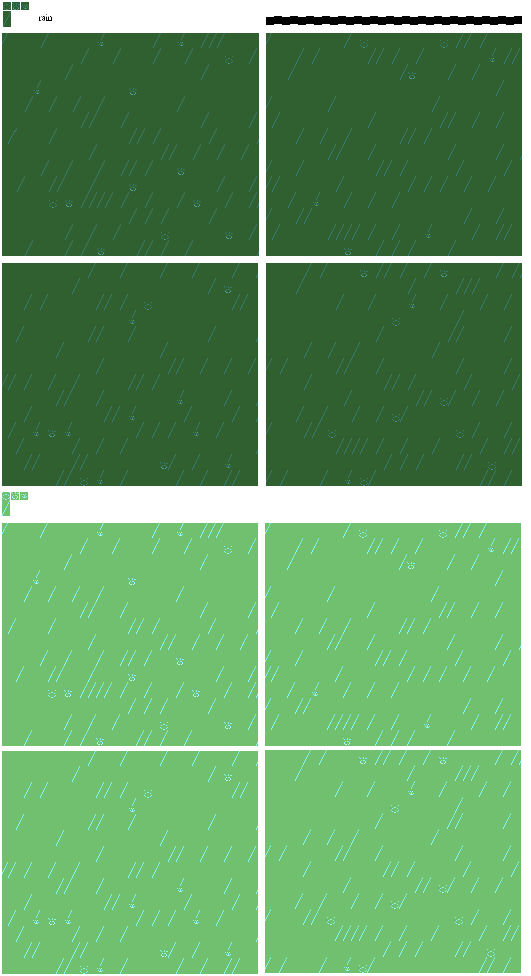
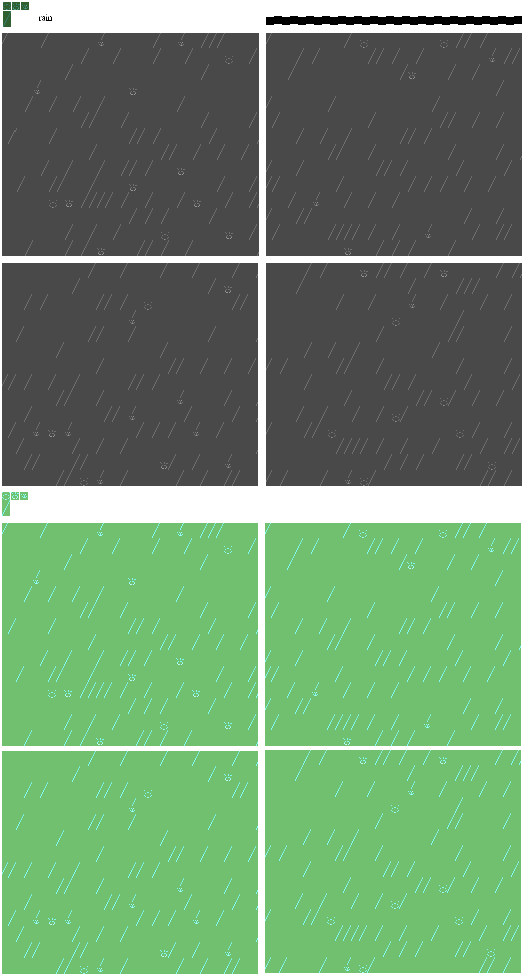
Added: rain

diff --git a/scenes/test/lib/rain.c b/scenes/test/lib/rain.c
@@ -1,0 +1,28 @@
+#include "rain.h"
+
+#include "../state.h"
+
+#include "../../../include/debug.h"
+#include "../../../include/game_state.h"
+#include "../../../include/sfml_helpers.h"
+
+#include "../../lib/animation.h"
+#include "../../lib/map.h"
+#include "../../lib/sprite_paths.h"
+
+#include "../../../generated_code/origins.h"
+#include "../../../generated_code/rects.h"
+
+const char RAIN_PATH[] = "assets/rain.png";
+
+void init_rain(map *m, float zoom)
+{
+    m_animation_init(&m->rain_animation, zoom, RAIN_PATH, vec_create(0, 0), rain_noflash, vec_create(0, 0), vec_center(0, 0));
+    sfColor save = sfSprite_getColor(m->rain_animation.sprite);
+    sfSprite_setColor(m->rain_animation.sprite, (sfColor){save.r, save.g, save.b, 100});
+}
+
+void update_rain(map *m)
+{
+    animation_update(&m->rain_animation, 50);
+}

diff --git a/generated_code/rects.c b/generated_code/rects.c
@@ -1151,9 +1151,9 @@ sfIntRect rain_flash_rects[] = {
 };
 
 sfIntRect rain_noflash_rects[] = {
-    { .left =    2, .top =   33, .width =  256, .height =  233, },
-    { .left =  266, .top =   33, .width =  256, .height =  233, },
-    { .left =    2, .top =  263, .width =  256, .height =  233, },
+    { .left =    2, .top =   33, .width =  256, .height =  223, },
+    { .left =  266, .top =   33, .width =  256, .height =  223, },
+    { .left =    2, .top =  263, .width =  256, .height =  223, },
     { .left =  266, .top =  263, .width =  256, .height =  223, },
     { .left =    0, .top =    0, .width =    0, .height =    0, },
 };

diff --git a/scenes/test/draw.c b/scenes/test/draw.c
@@ -35,11 +35,15 @@ int DECORATE(draw)(void *data, sfRenderWindow *win)
     }
 
     draw_textbox(&state->my_map.m.tuto_textbox, win);
-    
+
     boomerang_draw(win, &state->my_link.boomr, state->my_map.m.pos);
     animation_draw(&state->my_link.ani, win, NULL);
     if (state->my_link.is_carrying == 1) {
         sfRenderWindow_drawSprite(win, state->my_link.object_carried, NULL);
+    }
+
+    if (state->my_map.m.is_raining) {
+        animation_draw(&state->my_map.m.rain_animation, win, NULL);
     }
 
     display_hud(&state->my_link.link_stuff, win);

diff --git a/scenes/test/init.c b/scenes/test/init.c
@@ -14,6 +14,7 @@
 #include "../../generated_code/rects.h"
 
 #include "lib/init_mob.h"
+#include "lib/rain.h"
 
 #include <time.h>
 
@@ -43,6 +44,7 @@ int DECORATE(house_init)(DECORATE(state) *state)
     map *m = &state->my_map.m;
     map_init(m, MAP_PATH, MAP_COLOR_PATH, state->zoom_level);
     init_textbox(&state->my_map.m.tuto_textbox, state->width, state->height);
+    init_rain(m, state->zoom_level);
 }
 
 void *DECORATE(init)(global_state *game_state)

diff --git a/scenes/test/update.c b/scenes/test/update.c
@@ -17,8 +17,9 @@
 
 #include "lib/update_mob.h"
 #include "lib/update_objects.h"
-
 #include "lib/map_change.h"
+
+#include "lib/rain.h"
 
 int DECORATE(update)(void *data)
 {
@@ -100,6 +101,8 @@ int DECORATE(update)(void *data)
             }
         }
     }
+
+    update_rain(&state->my_map.m);
 
     return (0);
 }

diff --git a/generated_code/origins.c b/generated_code/origins.c
@@ -1136,7 +1136,7 @@ sfVector2f rain_flash_origs[] = {
 };
 
 sfVector2f rain_noflash_origs[] = {
-    { .x =    2, .y =    3 },
+    { .x =    2, .y =   33 },
     { .x =  266, .y =   33 },
     { .x =    2, .y =  263 },
     { .x =  266, .y =  263 },

diff --git a/scenes/test/lib/map_change.c b/scenes/test/lib/map_change.c
@@ -24,5 +24,7 @@ int map_change(link *link, object *door, map *map)
    map->mobs = door->mc.mobs;
    map->objects = door->mc.object;
 
+   map->is_raining = 1;
+
    return (1);
 }

diff --git a/scenes/lib/map.h b/scenes/lib/map.h
@@ -35,6 +35,9 @@ typedef struct {
 
     object *objects;
 
+    animation rain_animation;
+    int is_raining;
+
     textbox_state tuto_textbox;
 
 } map;

diff --git a/scenes/test/lib/rain.h b/scenes/test/lib/rain.h
@@ -1,0 +1,9 @@
+#ifndef RAIN_H_
+#define RAIN_H_
+
+#include "../../lib/map.h"
+
+void init_rain(map *m, float zoom);
+void update_rain(map *m);
+
+#endif
